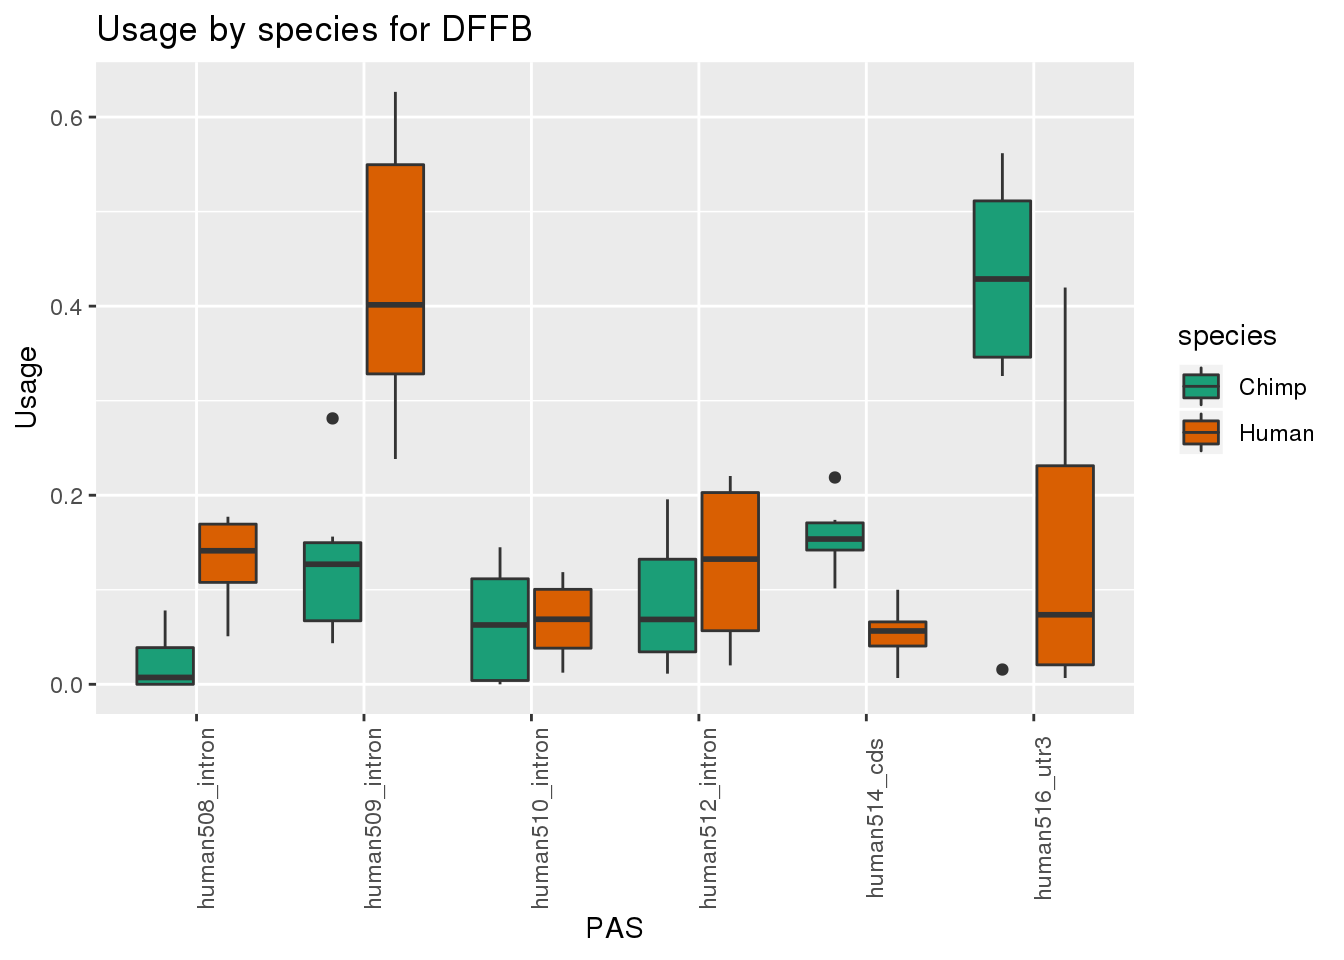
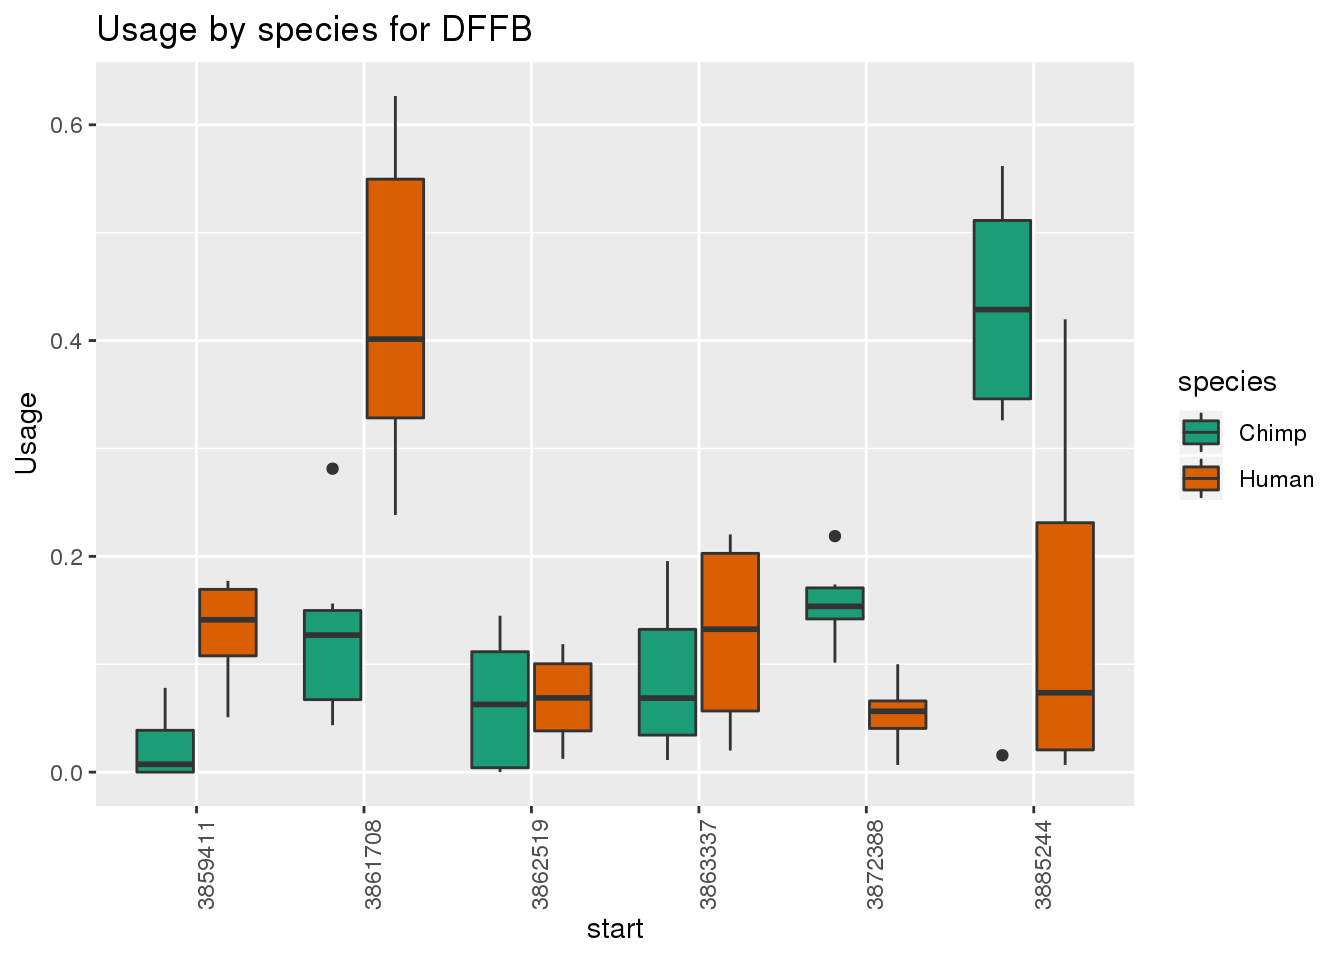
Build site.

diff --git a/docs/visualizePASUsage.html b/docs/visualizePASUsage.html
@@ -434,10 +434,10 @@ This reproducible <a href="http://rmarkdown.rstudio.com">R Markdown</a> analysis
 <div class="panel panel-default">
 <div class="panel-heading">
 <p class="panel-title">
-<a data-toggle="collapse" data-parent="#workflowr-checks" href="#strongRepositoryversionstrongahrefhttpsgithubcombrimittlemanComparativeAPAtree5dd5e3520a1db76aac47d0cd2ff68516635a8be6targetblank5dd5e35a"> <span class="glyphicon glyphicon-ok text-success" aria-hidden="true"></span> <strong>Repository version:</strong> <a href="https://github.com/brimittleman/Comparative_APA/tree/5dd5e3520a1db76aac47d0cd2ff68516635a8be6" target="_blank">5dd5e35</a> </a>
+<a data-toggle="collapse" data-parent="#workflowr-checks" href="#strongRepositoryversionstrongahrefhttpsgithubcombrimittlemanComparativeAPAtree446243e986102bfc6700fa4aebb7e544da9b4e6ftargetblank446243ea"> <span class="glyphicon glyphicon-ok text-success" aria-hidden="true"></span> <strong>Repository version:</strong> <a href="https://github.com/brimittleman/Comparative_APA/tree/446243e986102bfc6700fa4aebb7e544da9b4e6f" target="_blank">446243e</a> </a>
 </p>
 </div>
[2 lines of base64/hex data omitted]
 <div class="panel-body">
 <p>
 Great! You are using Git for version control. Tracking code development and connecting the code version to the results is critical for reproducibility. The version displayed above was the version of the Git repository at the time these results were generated. <br><br> Note that you need to be careful to ensure that all relevant files for the analysis have been committed to Git prior to generating the results (you can use <code>wflow_publish</code> or <code>wflow_git_commit</code>). workflowr only checks the R Markdown file, but you know if there are other scripts or data files that it depends on. Below is the status of the Git repository when the results were generated:
@@ -1048,6 +1048,40 @@ Message
 Rmd
 </td>
 <td>
+<a href="https://github.com/brimittleman/Comparative_APA/blob/446243e986102bfc6700fa4aebb7e544da9b4e6f/analysis/visualizePASUsage.Rmd" target="_blank">446243e</a>
+</td>
+<td>
+brimittleman
+</td>
+<td>
+2020-01-16
+</td>
+<td>
+update issue
+</td>
+</tr>
+<tr>
+<td>
+html
+</td>
+<td>
+<a href="https://rawcdn.githack.com/brimittleman/Comparative_APA/0a3545a5989e5163fbd6abaf57a9715cdd295541/docs/visualizePASUsage.html" target="_blank">0a3545a</a>
+</td>
+<td>
+brimittleman
+</td>
+<td>
+2020-01-15
+</td>
+<td>
+Build site.
+</td>
+</tr>
+<tr>
+<td>
+Rmd
+</td>
+<td>
 <a href="https://github.com/brimittleman/Comparative_APA/blob/5dd5e3520a1db76aac47d0cd2ff68516635a8be6/analysis/visualizePASUsage.Rmd" target="_blank">5dd5e35</a>
 </td>
 <td>
@@ -1071,12 +1105,12 @@ add code to viz nuclear dapa
 <pre><code>This is workflowr version 1.5.0
 Run ?workflowr for help getting started</code></pre>
 <pre class="r"><code>library(tidyverse)</code></pre>
-<pre><code>── Attaching packages ───────────────────────────────────────────────────── tidyverse 1.2.1 ──</code></pre>
+<pre><code>── Attaching packages ────────────────────────────────────────────────────────────────── tidyverse 1.2.1 ──</code></pre>
 <pre><code>✔ ggplot2 3.1.1       ✔ purrr   0.3.2  
 ✔ tibble  2.1.1       ✔ dplyr   0.8.0.1
 ✔ tidyr   0.8.3       ✔ stringr 1.3.1  
 ✔ readr   1.3.1       ✔ forcats 0.3.0  </code></pre>
-<pre><code>── Conflicts ──────────────────────────────────────────────────────── tidyverse_conflicts() ──
+<pre><code>── Conflicts ───────────────────────────────────────────────────────────────────── tidyverse_conflicts() ──
 ✖ dplyr::filter() masks stats::filter()
 ✖ dplyr::lag()    masks stats::lag()</code></pre>
 <p>I want to write a loop that will create boxplots for all of the PAS in each gene. I need a script that takes one gene and then outputs the plot.</p>
@@ -1094,15 +1128,54 @@ chimps=c( &#39;NA18358&#39;, &#39;NA3622&#39; ,&#39;NA3659&#39;, &#39;NA4973&#39
 <p>LOC107984841_+_utr3-Chimp-chimp242477 utr3-Chimp-chimp242477</p>
 <pre class="r"><code>NuclearUsage=read.table(&quot;../data/Pheno_5perc_nuclear/ALLPAS_postLift_LocParsed_bothSpecies_pheno_5perc_Nuclear.txt.gz&quot;, header = T)
 
-Nuclear_gather=NuclearUsage %&gt;% gather(key=&quot;Ind&quot;, value=&quot;Frac&quot;, -chrom) %&gt;% separate(Frac, into=c(&quot;num&quot;, &quot;denom&quot;), sep=&quot;/&quot;) %&gt;% mutate(numUsage=as.integer(num)/as.integer(denom)) %&gt;% replace_na(list(numUsage=0)) %&gt;% separate(Ind, into=c(&quot;sample&quot;, &quot;fraction&quot;), by=&quot;_&quot;) %&gt;% mutate(species=ifelse(sample %in% humans, &quot;Human&quot;,&quot;Chimp&quot;)) %&gt;% separate(chrom, into=c(&quot;chr&quot;,&quot;start&quot;,&quot;end&quot;,&quot;PASid&quot;), sep=&quot;:&quot;)%&gt;% separate(PASid, into=c(&quot;Gene&quot;, &quot;strand&quot;, &quot;PASinf&quot;), sep=&quot;_&quot;) %&gt;% separate(PASinf, into=c(&quot;loc&quot;, &quot;disc&quot;, &quot;PASnum&quot;), sep=&quot;-&quot;)%&gt;% mutate(PAS=paste(PASnum,loc,sep=&quot;_&quot;)) %&gt;% dplyr::select(PAS, species,Gene, sample,numUsage)</code></pre>
+Nuclear_gather=NuclearUsage %&gt;% gather(key=&quot;Ind&quot;, value=&quot;Frac&quot;, -chrom) %&gt;% separate(Frac, into=c(&quot;num&quot;, &quot;denom&quot;), sep=&quot;/&quot;) %&gt;% mutate(numUsage=as.integer(num)/as.integer(denom)) %&gt;% replace_na(list(numUsage=0)) %&gt;% separate(Ind, into=c(&quot;sample&quot;, &quot;fraction&quot;), by=&quot;_&quot;) %&gt;% mutate(species=ifelse(sample %in% humans, &quot;Human&quot;,&quot;Chimp&quot;)) %&gt;% separate(chrom, into=c(&quot;chr&quot;,&quot;start&quot;,&quot;end&quot;,&quot;PASid&quot;), sep=&quot;:&quot;)%&gt;% separate(PASid, into=c(&quot;Gene&quot;, &quot;strand&quot;, &quot;PASinf&quot;), sep=&quot;_&quot;) %&gt;% separate(PASinf, into=c(&quot;loc&quot;, &quot;disc&quot;, &quot;PASnum&quot;), sep=&quot;-&quot;)%&gt;% mutate(PAS=paste(PASnum,loc,sep=&quot;_&quot;)) %&gt;% dplyr::select(chr,start,end, strand, PAS, species,Gene, sample,numUsage)</code></pre>
 <pre><code>Warning: attributes are not identical across measure variables;
 they will be dropped</code></pre>
 <p>example gene:<br />
 DFFB</p>
 <pre class="r"><code>Nuclear_gather_DFFB=Nuclear_gather %&gt;% filter(Gene==&quot;DFFB&quot;)
 
-ggplot(Nuclear_gather_DFFB,aes(x=PAS, y=numUsage, by=species, fill=species))+ geom_boxplot() + scale_fill_brewer(palette = &quot;Dark2&quot;)+theme(axis.text.x = element_text(angle = 90)) + labs(y=&quot;Usage&quot;, title=&quot;Usage by species for DFFB&quot;)</code></pre>
+Nuclear_gather_DFFB$start=as.factor(as.integer(Nuclear_gather_DFFB$start))
+
+ggplot(Nuclear_gather_DFFB,aes(x=start, y=numUsage, by=species, fill=species))+ geom_boxplot() + scale_fill_brewer(palette = &quot;Dark2&quot;)+theme(axis.text.x = element_text(angle = 90)) + labs(y=&quot;Usage&quot;, title=&quot;Usage by species for DFFB&quot;) </code></pre>
 <p><img src="figure/visualizePASUsage.Rmd/unnamed-chunk-5-1.png" width="672" style="display: block; margin: auto;" /></p>
+<p>
+<button type="button" class="btn btn-default btn-xs btn-workflowr btn-workflowr-fig" data-toggle="collapse" data-target="#fig-unnamed-chunk-5-1">
+Past versions of unnamed-chunk-5-1.png
+</button>
+</p>
+<div id="fig-unnamed-chunk-5-1" class="collapse">
+<div class="table-responsive">
+<table class="table table-condensed table-hover">
+<thead>
+<tr>
+<th>
+Version
+</th>
+<th>
+Author
+</th>
+<th>
+Date
+</th>
+</tr>
+</thead>
+<tbody>
+<tr>
+<td>
+<a href="https://github.com/brimittleman/Comparative_APA/blob/0a3545a5989e5163fbd6abaf57a9715cdd295541/docs/figure/visualizePASUsage.Rmd/unnamed-chunk-5-1.png" target="_blank">0a3545a</a>
+</td>
+<td>
+brimittleman
+</td>
+<td>
+2020-01-15
+</td>
+</tr>
+</tbody>
+</table>
+</div>
+</div>
 <pre class="r"><code>write.table(Nuclear_gather,&quot;../data/files4viz_nuclear/NuclearPASUsage.txt&quot;, col.names = T, row.names = F, quote = F)</code></pre>
 <p>I will put this in an R script that takes a gene.</p>
 <p>test on DFFB</p>
@@ -1112,6 +1185,7 @@ ggplot(Nuclear_gather_DFFB,aes(x=PAS, y=numUsage, by=species, fill=species))+ ge
 <pre class="bash"><code>sed &#39;1d&#39; ../data/DiffIso_Nuclear/SignifianceEitherGENES_Nuclear.txt &gt; ../data/DiffIso_Nuclear/SignifianceEitherGENES_Nuclear_noHead.txt
 
 sbatch makeNuclearDapaplots.sh</code></pre>
+<p>Problem is with the order. The chimp PAS come before the other. This mean they are not in line. I need to pull the locations into the file and do some factor ordering.</p>
 <br>
 <p>
 <button type="button" class="btn btn-default btn-workflowr btn-workflowr-sessioninfo" data-toggle="collapse" data-target="#workflowr-sessioninfo" style="display: block;">
